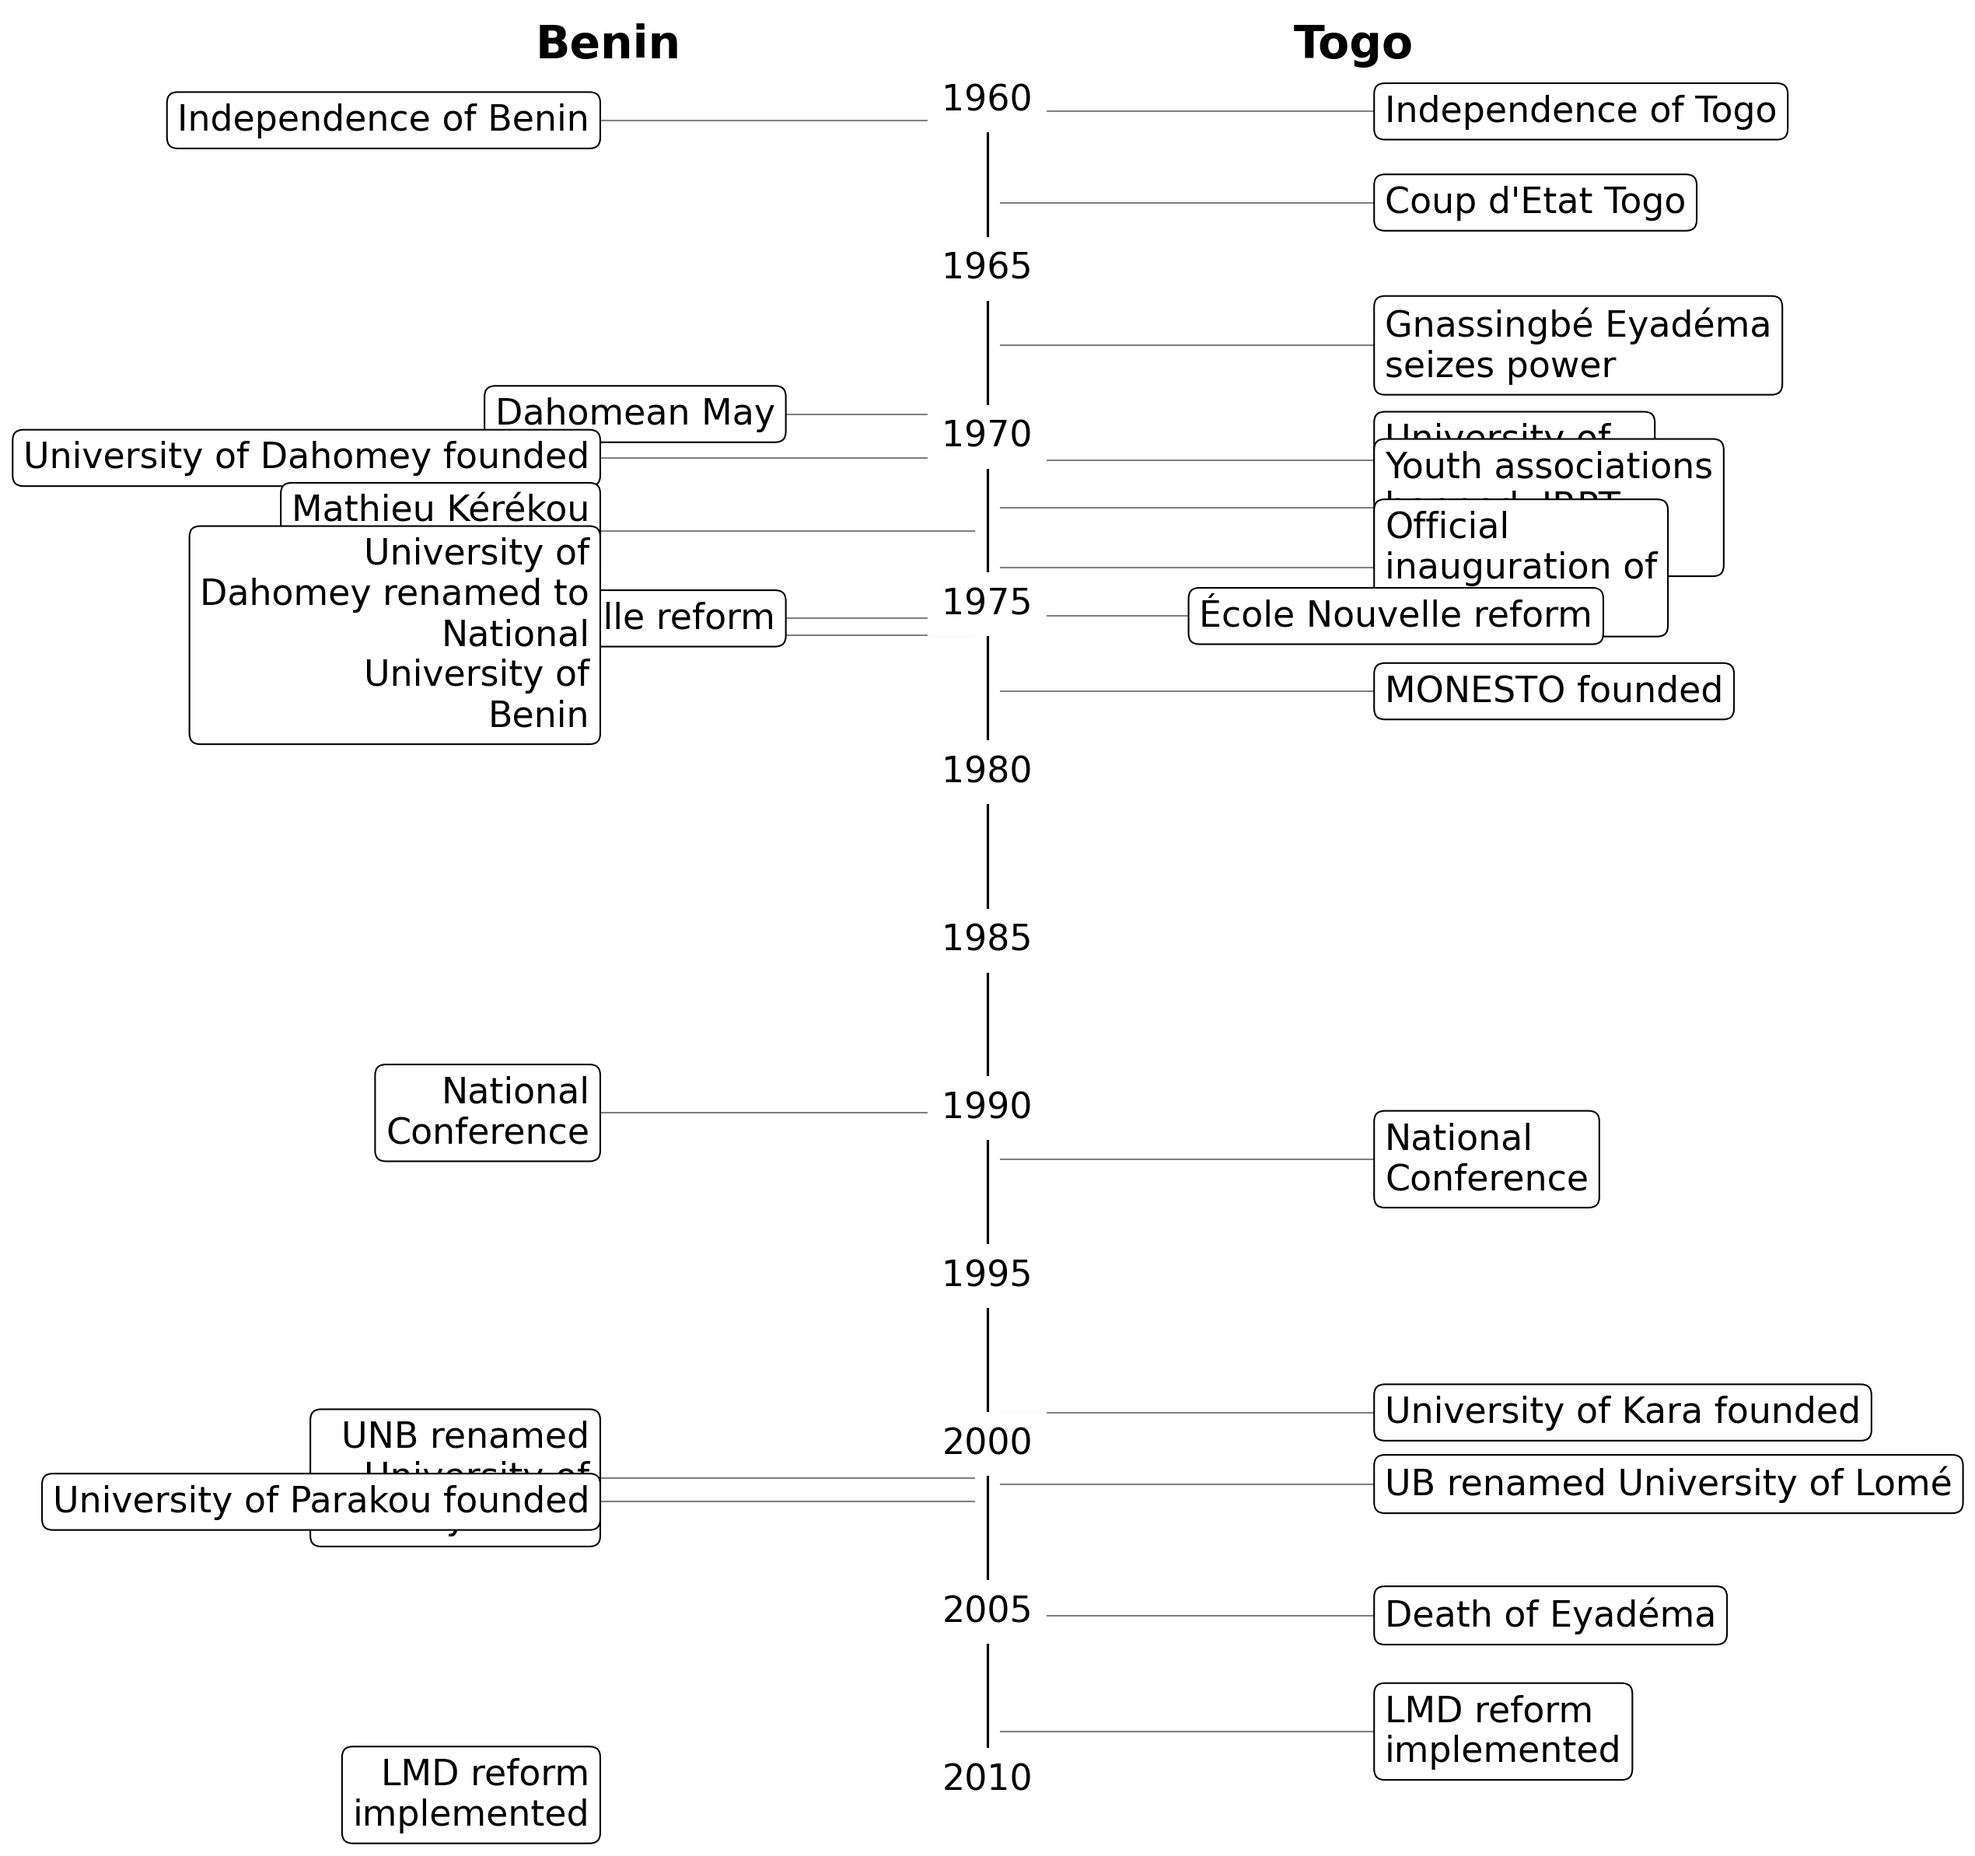
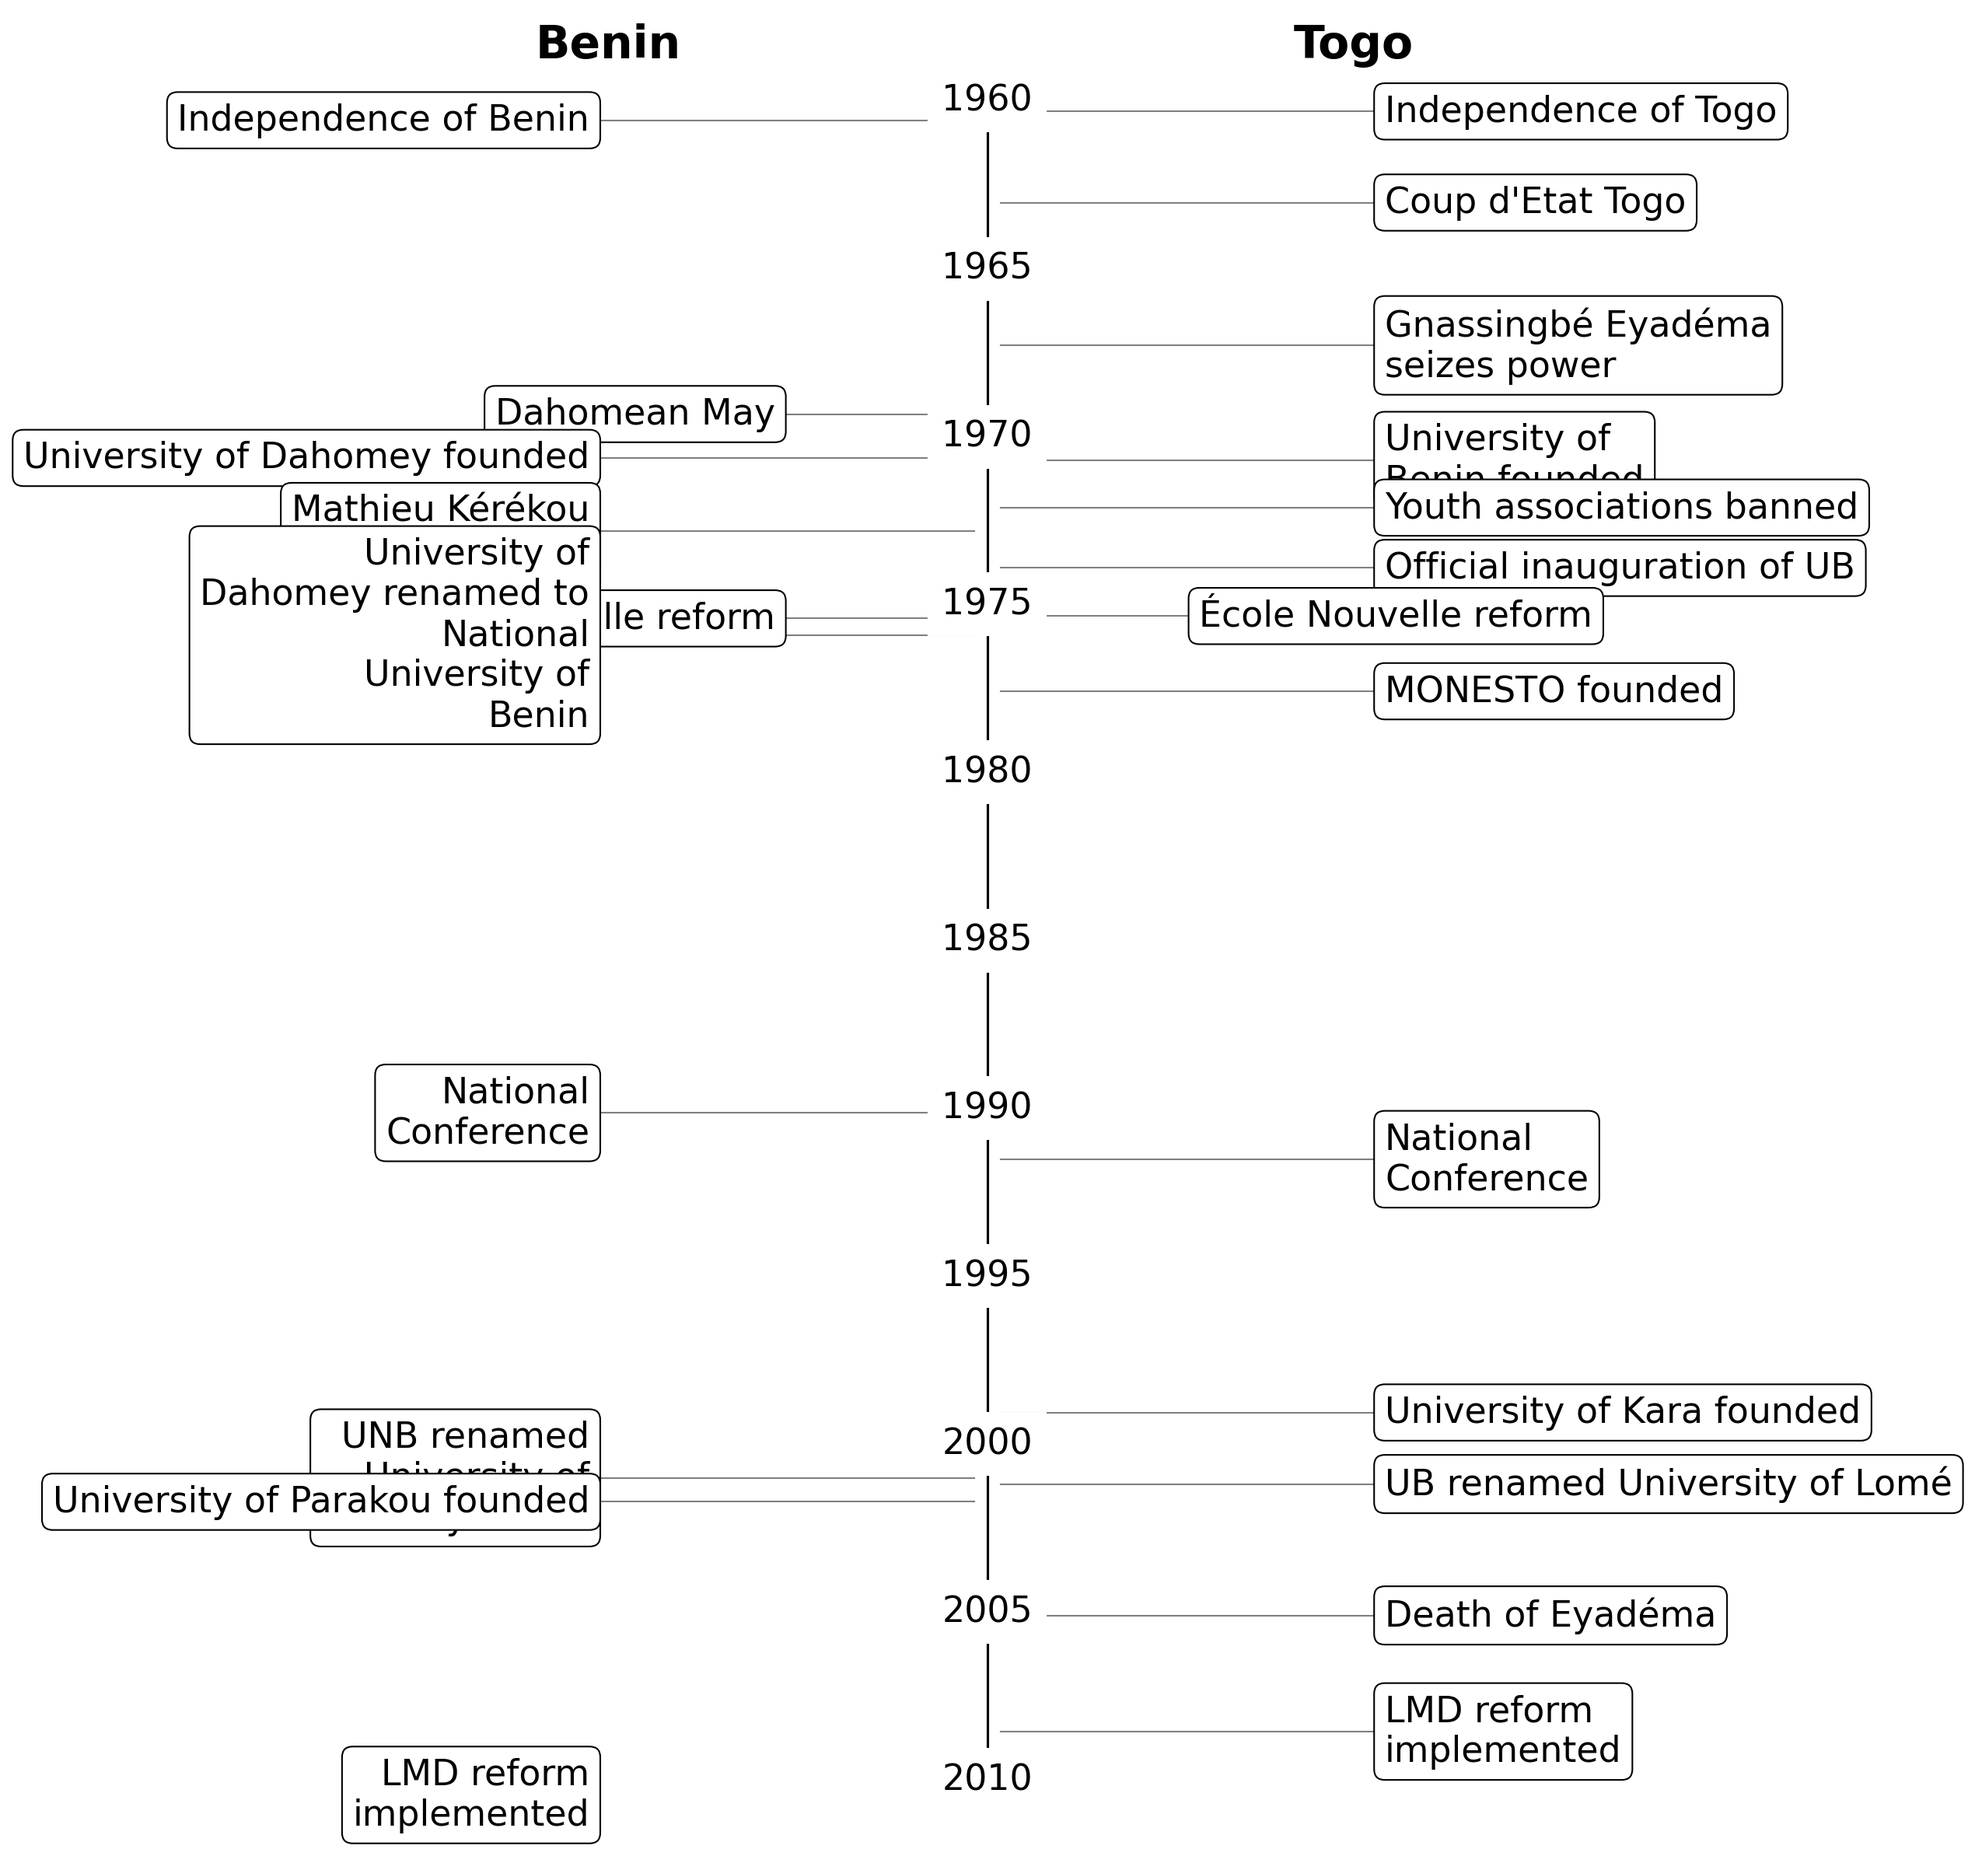
Update

Changed region(s): [[0.6843, 0.217, 0.9331, 0.341]]

diff --git a/Book_DeGruyter/Timeline/timeline.py b/Book_DeGruyter/Timeline/timeline.py
@@ -135,7 +135,9 @@ def create_timeline(data, categories, filename_base, manual_positions=None):
             "Independence of Benin",
             "UB renamed University of Lomé",
             "University of Parakou founded",
-            "University of Dahomey founded"
+            "University of Dahomey founded",
+            "Official inauguration of UB",
+            "Youth associations banned"
         ]
         if text in no_wrap_events:
             return text  # Don't wrap these texts
